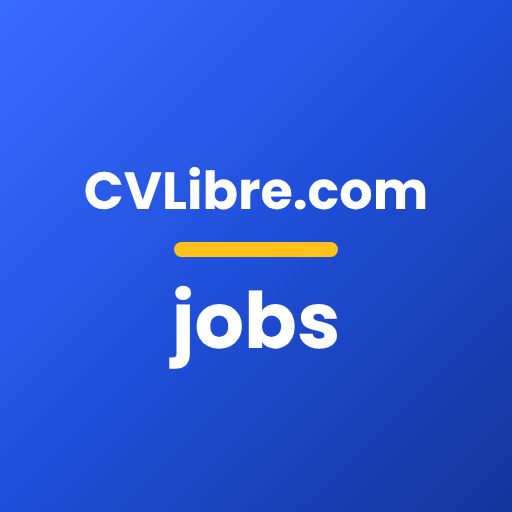
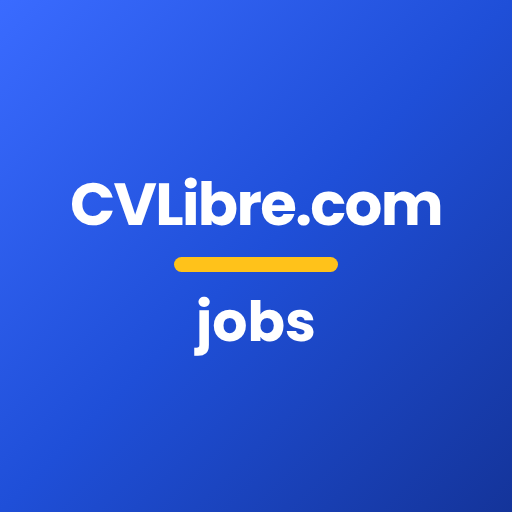
Icône appli Jobs : CVLibre.com plus grand, jobs plus petit
Claude-Session: https://claude.ai/code/session_01C97iXcqBvxtjgHv4LhD2QB

Changed region(s): [[0.125, 0.3125, 0.875, 0.4375], [0.3125, 0.5625, 0.6562, 0.7188], [0.3438, 0.4688, 0.6562, 0.5312]]

diff --git a/assets/app.js b/assets/app.js
@@ -48,7 +48,7 @@
   window.addEventListener("beforeinstallprompt", function (e) { e.preventDefault(); deferred = e; });
   var card = document.createElement("div");
   card.className = "cvapp";
-  card.innerHTML = '<img src="/assets/app-192.png?v=3" alt=""><p>' + T.t + '</p><button type="button" class="btn">' + T.b + '</button><button type="button" class="cvapp-x" aria-label="' + T.x + '">×</button>';
+  card.innerHTML = '<img src="/assets/app-192.png?v=4" alt=""><p>' + T.t + '</p><button type="button" class="btn">' + T.b + '</button><button type="button" class="cvapp-x" aria-label="' + T.x + '">×</button>';
   lead.insertAdjacentElement("afterend", card);
   var help = null;
   card.querySelector(".btn").addEventListener("click", function () {

diff --git a/au/jobs/index.html b/au/jobs/index.html
@@ -30,7 +30,7 @@
 <link rel="stylesheet" href="/assets/style.css?v=20261113z">
 <link rel="stylesheet" href="/assets/cv.css?v=20261113b">
 <link rel="icon" href="/assets/favicon.svg" type="image/svg+xml">
-<link rel="apple-touch-icon" href="/assets/app-touch-180.png?v=3">
+<link rel="apple-touch-icon" href="/assets/app-touch-180.png?v=4">
 <link rel="preload" href="/assets/fonts/source-sans-3-latin-wght-normal.woff2" as="font" type="font/woff2" crossorigin>
 <link rel="stylesheet" href="/assets/letter.css?v=20261113b">
 <link rel="stylesheet" href="/assets/offres.css?v=20261113c">

diff --git a/ca/jobs/index.html b/ca/jobs/index.html
@@ -30,7 +30,7 @@
 <link rel="stylesheet" href="/assets/style.css?v=20261113z">
 <link rel="stylesheet" href="/assets/cv.css?v=20261113b">
 <link rel="icon" href="/assets/favicon.svg" type="image/svg+xml">
-<link rel="apple-touch-icon" href="/assets/app-touch-180.png?v=3">
+<link rel="apple-touch-icon" href="/assets/app-touch-180.png?v=4">
 <link rel="preload" href="/assets/fonts/source-sans-3-latin-wght-normal.woff2" as="font" type="font/woff2" crossorigin>
 <link rel="stylesheet" href="/assets/letter.css?v=20261113b">
 <link rel="stylesheet" href="/assets/offres.css?v=20261113c">

diff --git a/de/jobs/index.html b/de/jobs/index.html
@@ -30,7 +30,7 @@
 <link rel="stylesheet" href="/assets/style.css?v=20261113z">
 <link rel="stylesheet" href="/assets/cv.css?v=20261113b">
 <link rel="icon" href="/assets/favicon.svg" type="image/svg+xml">
-<link rel="apple-touch-icon" href="/assets/app-touch-180.png?v=3">
+<link rel="apple-touch-icon" href="/assets/app-touch-180.png?v=4">
 <link rel="preload" href="/assets/fonts/source-sans-3-latin-wght-normal.woff2" as="font" type="font/woff2" crossorigin>
 <link rel="stylesheet" href="/assets/letter.css?v=20261113b">
 <link rel="stylesheet" href="/assets/offres.css?v=20261113c">

diff --git a/en/jobs/index.html b/en/jobs/index.html
@@ -30,7 +30,7 @@
 <link rel="stylesheet" href="/assets/style.css?v=20261113z">
 <link rel="stylesheet" href="/assets/cv.css?v=20261113b">
 <link rel="icon" href="/assets/favicon.svg" type="image/svg+xml">
-<link rel="apple-touch-icon" href="/assets/app-touch-180.png?v=3">
+<link rel="apple-touch-icon" href="/assets/app-touch-180.png?v=4">
 <link rel="preload" href="/assets/fonts/source-sans-3-latin-wght-normal.woff2" as="font" type="font/woff2" crossorigin>
 <link rel="stylesheet" href="/assets/letter.css?v=20261113b">
 <link rel="stylesheet" href="/assets/offres.css?v=20261113c">

diff --git a/nz/jobs/index.html b/nz/jobs/index.html
@@ -30,7 +30,7 @@
 <link rel="stylesheet" href="/assets/style.css?v=20261113z">
 <link rel="stylesheet" href="/assets/cv.css?v=20261113b">
 <link rel="icon" href="/assets/favicon.svg" type="image/svg+xml">
-<link rel="apple-touch-icon" href="/assets/app-touch-180.png?v=3">
+<link rel="apple-touch-icon" href="/assets/app-touch-180.png?v=4">
 <link rel="preload" href="/assets/fonts/source-sans-3-latin-wght-normal.woff2" as="font" type="font/woff2" crossorigin>
 <link rel="stylesheet" href="/assets/letter.css?v=20261113b">
 <link rel="stylesheet" href="/assets/offres.css?v=20261113c">

diff --git a/us/jobs/index.html b/us/jobs/index.html
@@ -30,7 +30,7 @@
 <link rel="stylesheet" href="/assets/style.css?v=20261113z">
 <link rel="stylesheet" href="/assets/cv.css?v=20261113b">
 <link rel="icon" href="/assets/favicon.svg" type="image/svg+xml">
-<link rel="apple-touch-icon" href="/assets/app-touch-180.png?v=3">
+<link rel="apple-touch-icon" href="/assets/app-touch-180.png?v=4">
 <link rel="preload" href="/assets/fonts/source-sans-3-latin-wght-normal.woff2" as="font" type="font/woff2" crossorigin>
 <link rel="stylesheet" href="/assets/letter.css?v=20261113b">
 <link rel="stylesheet" href="/assets/offres.css?v=20261113c">

diff --git a/offres-emploi/index.html b/offres-emploi/index.html
@@ -30,7 +30,7 @@
 <link rel="stylesheet" href="/assets/letter.css?v=20261113b">
 <link rel="stylesheet" href="/assets/offres.css?v=20261113c">
 <link rel="icon" href="/assets/favicon.svg" type="image/svg+xml">
-<link rel="apple-touch-icon" href="/assets/app-touch-180.png?v=3">
+<link rel="apple-touch-icon" href="/assets/app-touch-180.png?v=4">
 <link rel="preload" href="/assets/fonts/source-sans-3-latin-wght-normal.woff2" as="font" type="font/woff2" crossorigin>
 <link rel="manifest" href="/offres-emploi/manifest.webmanifest">
 <meta name="mobile-web-app-capable" content="yes">

diff --git a/tools/i18n/pwa.py b/tools/i18n/pwa.py
@@ -16,7 +16,7 @@ for d in DIRS:
                 '<meta name="apple-mobile-web-app-status-bar-style" content="default">\n') % (d, title)
         s = s.replace("</head>", head + "</head>", 1)
     # the installed app uses the "CV jobs" icon on these pages
-    s = s.replace('<link rel="apple-touch-icon" href="/assets/apple-touch-icon.png">', '<link rel="apple-touch-icon" href="/assets/app-touch-180.png?v=3">')
+    s = s.replace('<link rel="apple-touch-icon" href="/assets/apple-touch-icon.png">', '<link rel="apple-touch-icon" href="/assets/app-touch-180.png?v=4">')
     s = s.replace('content="CVLibre Emploi"', 'content="Jobs CVLibre"').replace('<meta name="apple-mobile-web-app-title" content="CVLibre Jobs">', '<meta name="apple-mobile-web-app-title" content="Jobs CVLibre">')
     if "/assets/app.js" not in s:
         i = s.rfind("</body>")
